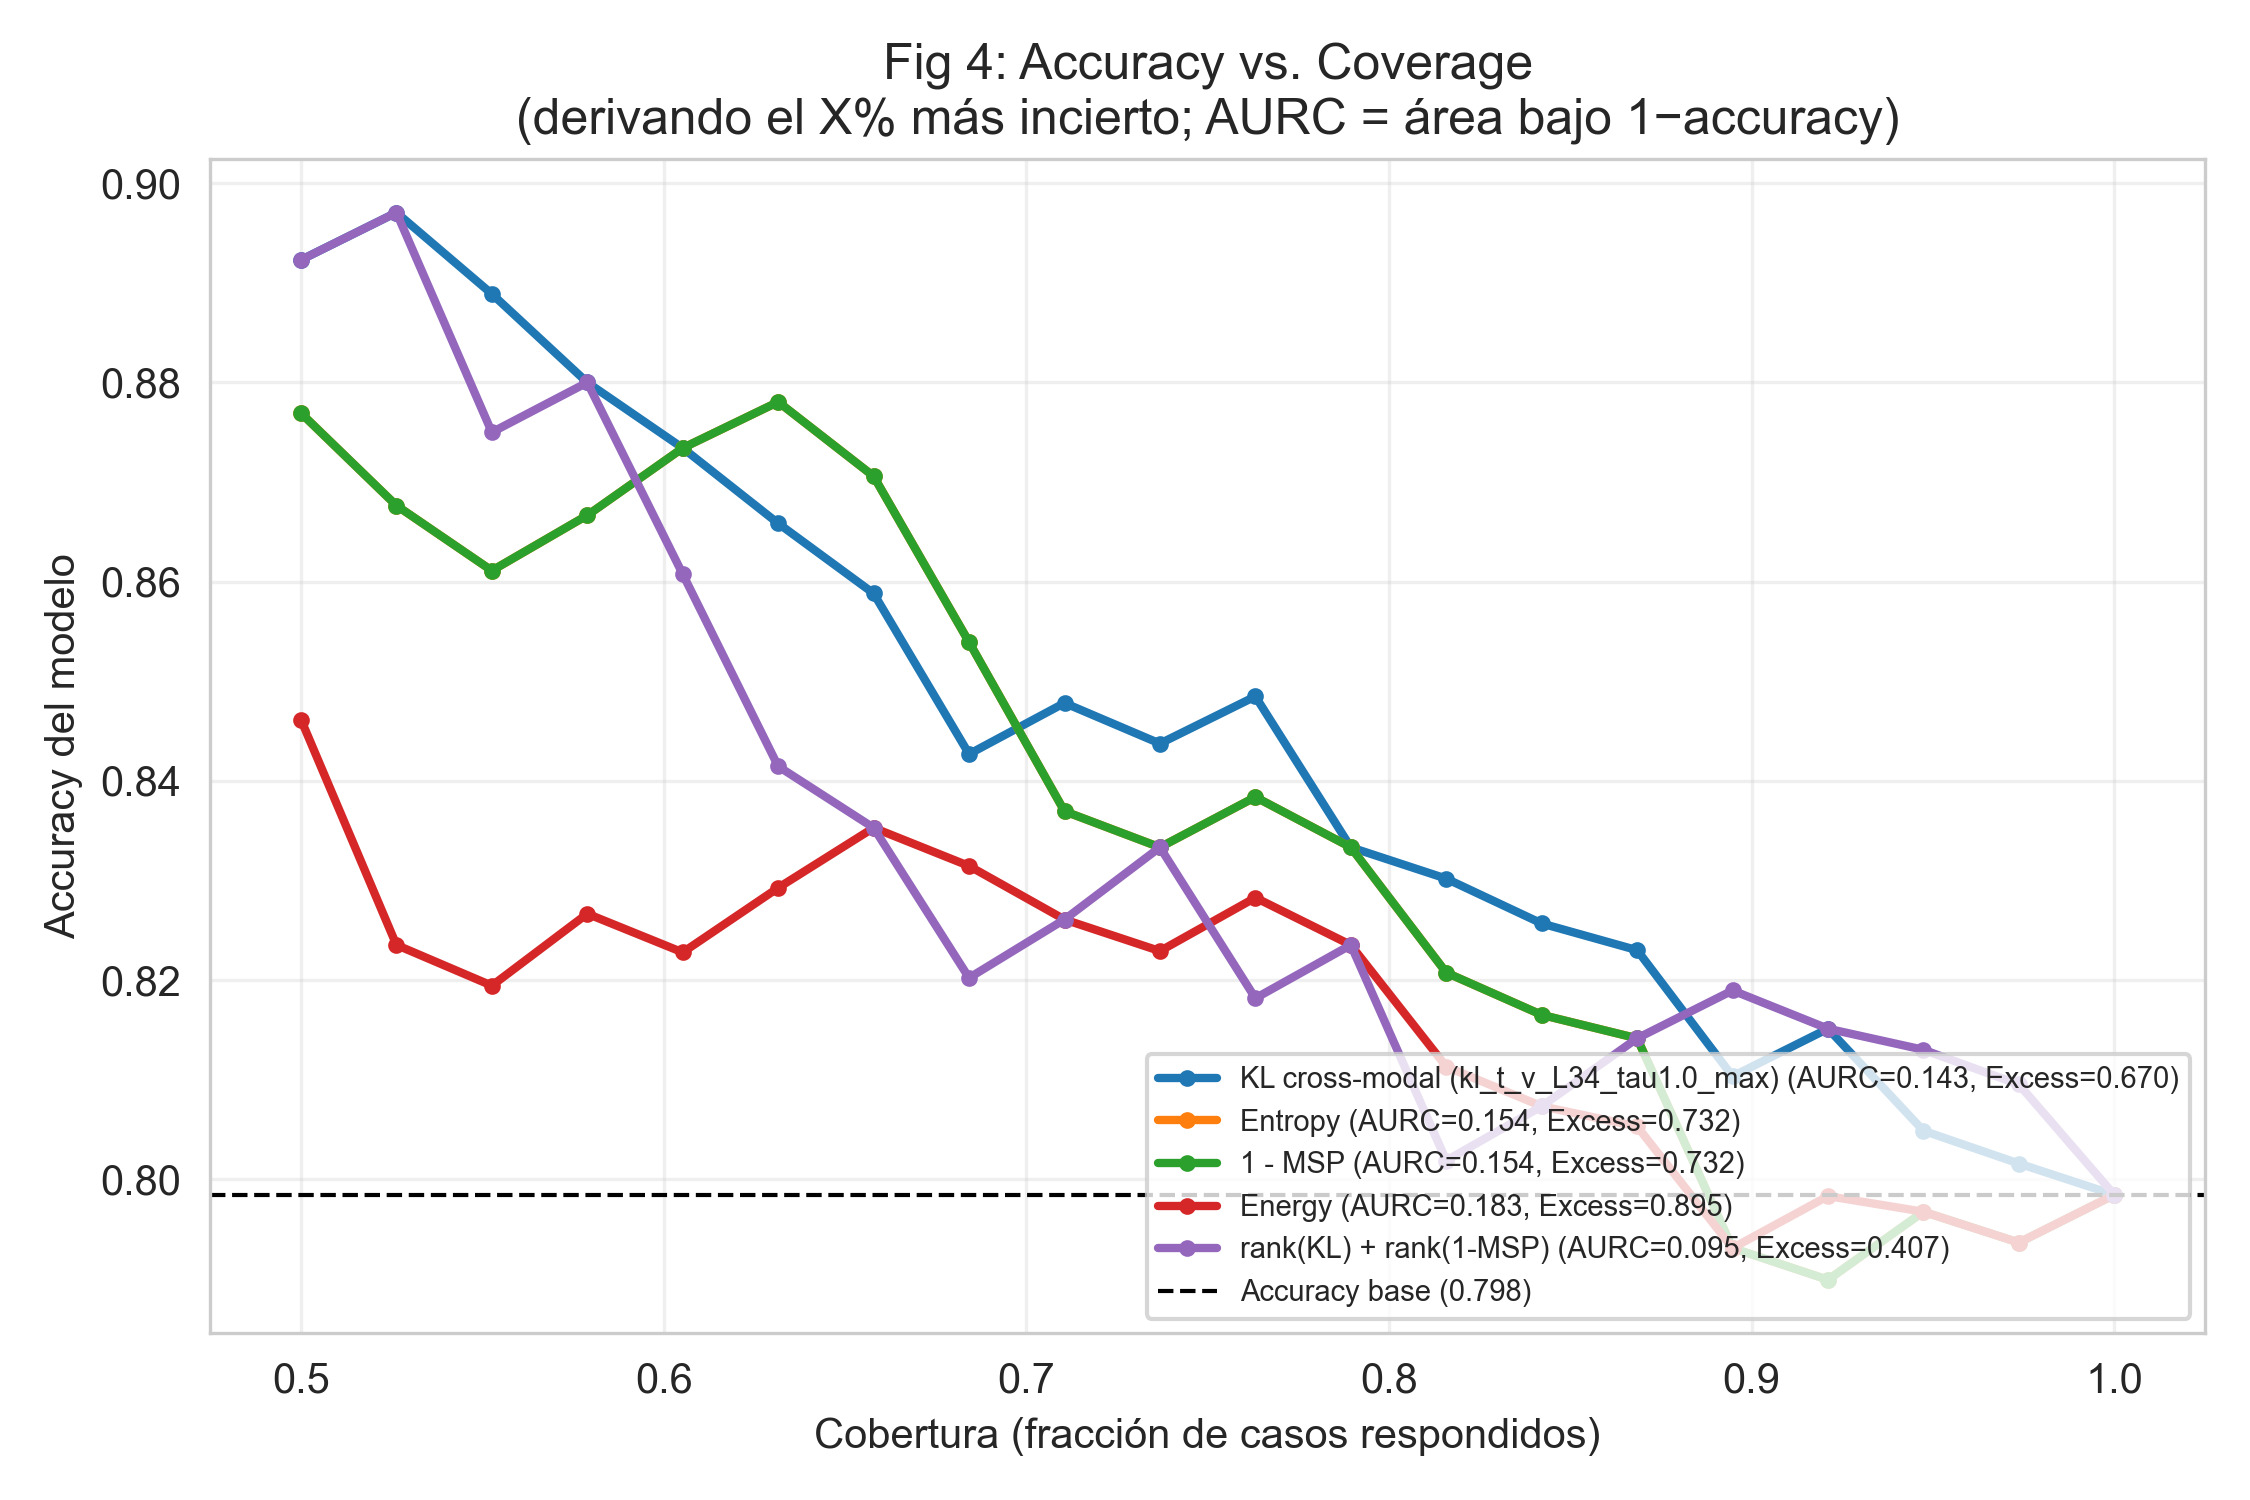
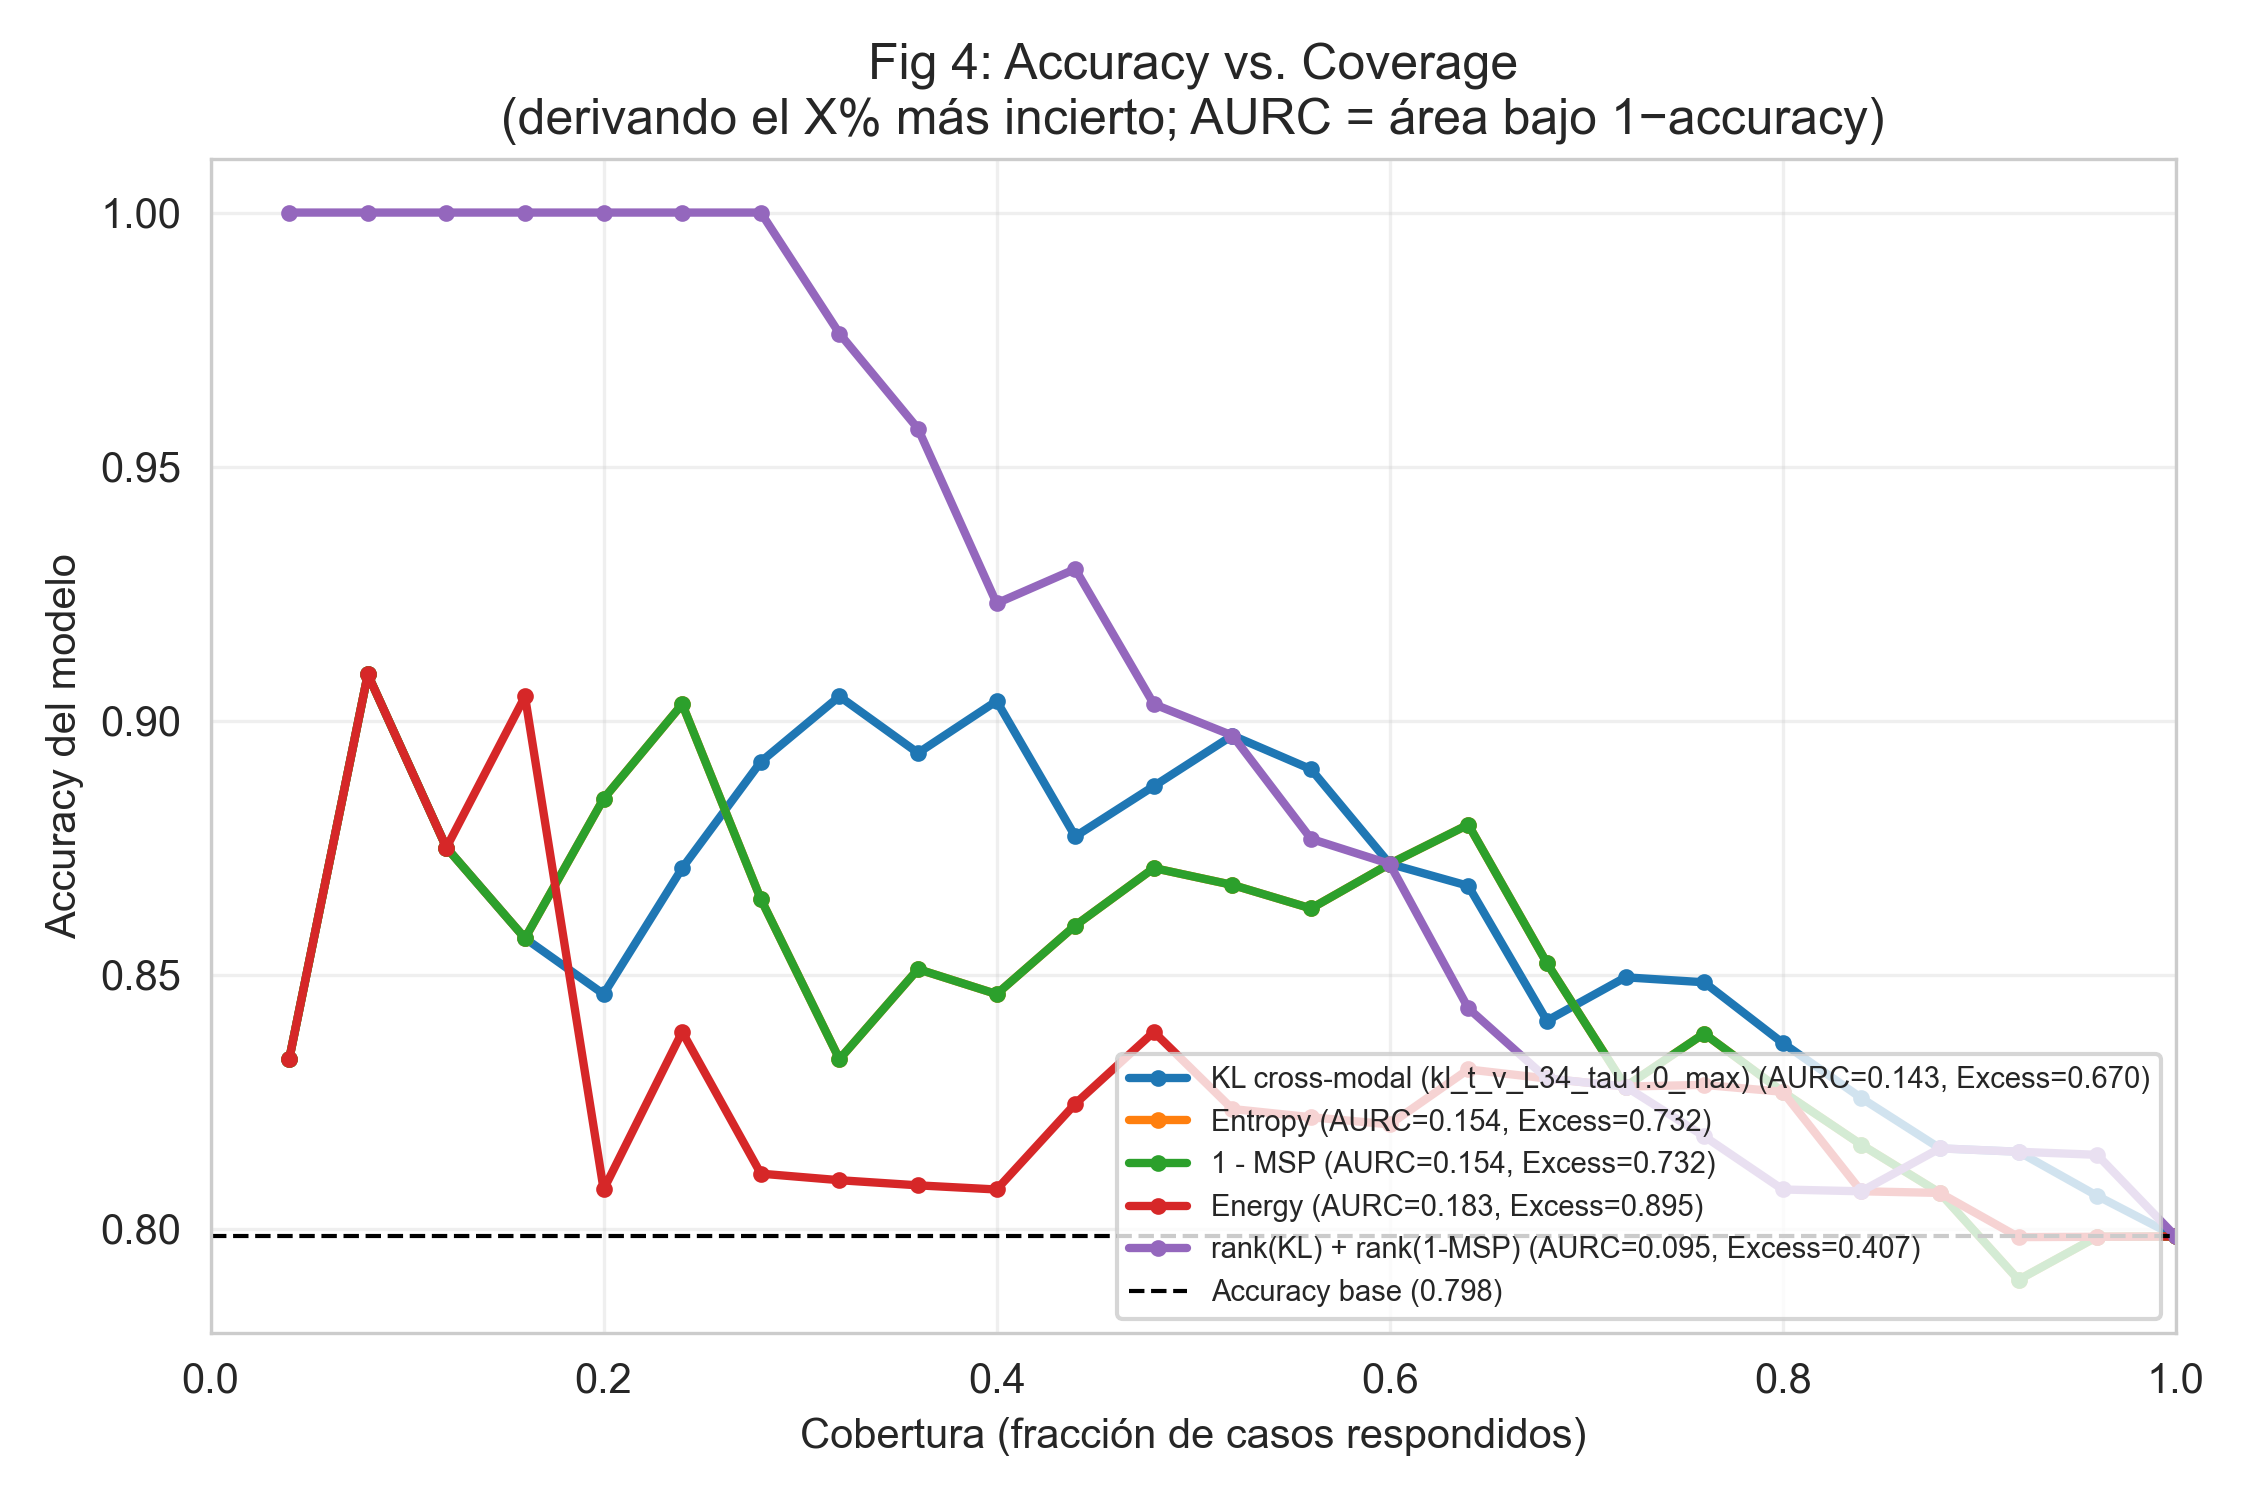
feat: Fig 4 con eje de cobertura completo 0-1
Revela que la combinación por ranks mantiene accuracy=1.0 hasta
cobertura ~0.28 (zona verde de auto-respuesta sin errores en la cohorte)

diff --git a/src/figures.py b/src/figures.py
@@ -197,7 +197,7 @@ def fig4_accuracy_coverage(signals: dict[str, pd.DataFrame], out_path: Path) -> 
 
         order = np.argsort(-vals)  # más incierto primero
         coverages, accuracies = [], []
-        for coverage in np.linspace(0.5, 1.0, 20):
+        for coverage in np.linspace(0.0, 1.0, 26):
             n_keep = int(np.ceil(n_valid * coverage))
             # retenemos los MENOS inciertos: los últimos del orden descendente
             keep = order[n_valid - n_keep:]
@@ -214,6 +214,7 @@ def fig4_accuracy_coverage(signals: dict[str, pd.DataFrame], out_path: Path) -> 
 
     ax.set_xlabel("Cobertura (fracción de casos respondidos)")
     ax.set_ylabel("Accuracy del modelo")
+    ax.set_xlim(0, 1)
     ax.set_title("Fig 4: Accuracy vs. Coverage\n(derivando el X% más incierto; AURC = área bajo 1−accuracy)")
     ax.legend(loc="lower right", fontsize=7)
     ax.grid(True, alpha=0.3)
